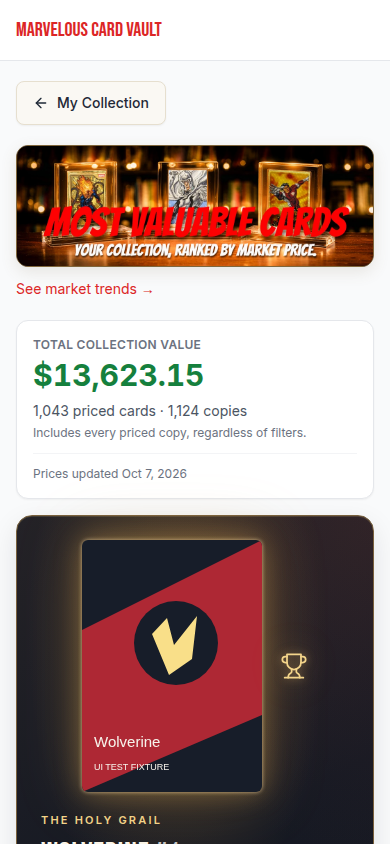
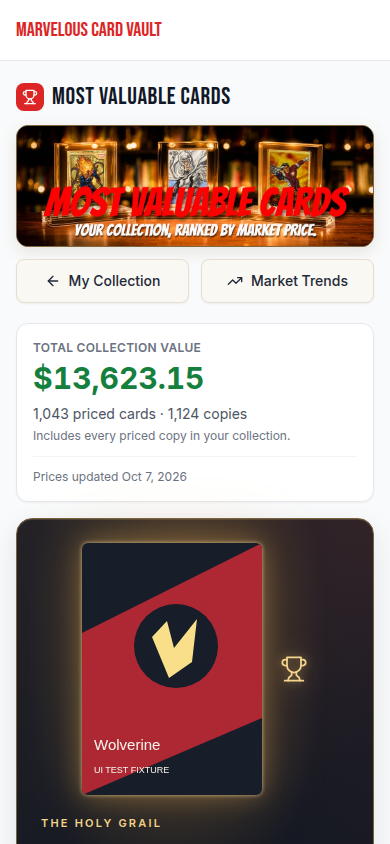
Update collection value browser and refresh development screenshots
Replit-Commit-Author: Agent

diff --git a/client/src/dev/value-browser-check.ts b/client/src/dev/value-browser-check.ts
@@ -99,10 +99,27 @@ async function checkBanner(page: Page) {
   assert.equal(dimensions.height, 344);
   assert.ok(Math.abs(dimensions.renderedWidth / dimensions.renderedHeight - 1024 / 344) < 0.01, "banner is uncropped");
   assert.notEqual(dimensions.objectFit, "cover");
-  assert.ok((await page.getByRole("heading", { name: "Most Valuable Cards", exact: true }).getAttribute("class"))?.includes("sr-only"));
+  const heading = page.getByRole("heading", { name: "Most Valuable Cards", exact: true });
+  assert.ok(!(await heading.getAttribute("class"))?.includes("sr-only"), "heading is visible, not screen-reader-only");
+  assert.equal(await heading.isVisible(), true);
   assert.equal(await page.getByText("Your collection, ranked by cached market price.", { exact: true }).count(), 0);
-  assert.equal(await page.getByRole("link", { name: "My Collection", exact: true }).getAttribute("href"), "/my-collection");
-  assert.equal(await page.getByRole("link", { name: "See market trends →" }).getAttribute("href"), "/trends");
+  const collectionLink = page.getByRole("link", { name: "My Collection", exact: true });
+  const trendsLink = page.getByRole("link", { name: "Market Trends", exact: true });
+  assert.equal(await collectionLink.getAttribute("href"), "/my-collection");
+  assert.equal(await trendsLink.getAttribute("href"), "/trends");
+  const titleBounds = await heading.boundingBox();
+  const bannerBounds = await banner.boundingBox();
+  const collectionBounds = await collectionLink.boundingBox();
+  const trendsBounds = await trendsLink.boundingBox();
+  assert.ok(titleBounds && bannerBounds && collectionBounds && trendsBounds);
+  assert.ok(titleBounds.y + titleBounds.height <= bannerBounds.y, "visible heading precedes banner");
+  assert.ok(collectionBounds.y >= bannerBounds.y + bannerBounds.height, "My Collection is below banner");
+  assert.ok(trendsBounds.y >= bannerBounds.y + bannerBounds.height, "Market Trends is below banner");
+  assert.ok(Math.abs(collectionBounds.y - trendsBounds.y) < 1, "navigation links share a row");
+  assert.ok(Math.abs(collectionBounds.width - trendsBounds.width) < 1, "navigation links are balanced");
+  assert.ok(collectionBounds.height >= 44 && trendsBounds.height >= 44, "comfortable navigation touch targets");
+  assert.ok((await page.getByTestId("value-summary").innerText()).includes("Includes every priced copy in your collection."));
+  assert.equal(await page.getByText("Includes every priced copy, regardless of filters.", { exact: true }).count(), 0);
 }
 
 // Run: npx tsx client/src/dev/value-browser-check.ts
@@ -146,7 +163,9 @@ const css = (await postcss([tailwindcss({ config: "tailwind.config.ts" })]).proc
 let checks = 0;
 try {
   for (const scenario of ["value", "dashboard", "collection", "trends", "profile-owner", "profile-visitor", "profile-private", "profile-friends", "profile-hidden", "empty", "error", "loading", "page-error", "detail-error"]) {
+    console.log(`Checking ${scenario}`);
     const page = await browser.newPage({ viewport: { width: 390, height: 844 } });
+    page.setDefaultTimeout(15_000);
     const errors: string[] = [], requests: string[] = [];
     page.on("pageerror", error => { errors.push(error.message); console.error(scenario, error.message); });
     await page.route("**/src/dev/value-harness.html*", route => route.fulfill({
@@ -249,6 +268,10 @@ try {
       assert.equal(await page.locator('[data-testid^="value-card-"]').count(), 25);
       await checkShowcase(page, requests, scenario, output);
       if (scenario === "value") {
+        await page.getByRole("link", { name: "Market Trends", exact: true }).click();
+        await page.getByRole("heading", { name: "Your top cards" }).waitFor();
+        await page.getByRole("link", { name: "See all →" }).click();
+        await page.getByTestId("value-page-banner").waitFor();
         await page.getByRole("link", { name: "My Collection", exact: true }).click();
         await page.getByRole("combobox", { name: "Collection sort" }).waitFor();
         assert.equal(await page.getByTestId("value-page-banner").count(), 0, "back navigation reaches My Collection");

diff --git a/client/src/pages/collection-value.tsx b/client/src/pages/collection-value.tsx
@@ -1,5 +1,5 @@
 import { Link } from "wouter";
-import { ArrowLeft } from "lucide-react";
+import { ArrowLeft, TrendingUp, Trophy } from "lucide-react";
 import { CollectionValueList } from "@/components/collection/collection-value-list";
 import valueBanner from "@/assets/most-valuable-cards-banner.webp";
 
@@ -7,13 +7,18 @@ export default function CollectionValue() {
   return (
     <div className="min-h-[100dvh] bg-gray-50 px-4 py-5 pb-20 sm:px-6">
       <div className="mx-auto max-w-5xl space-y-5">
-        <Link href="/my-collection" className="inline-flex min-h-11 items-center gap-2 rounded-lg border border-[#e6dfcf] bg-[#faf8f3] px-4 py-2 text-sm font-medium text-gray-800 shadow-sm hover:border-[#9b732e] hover:bg-[#f4efe4] focus-visible:outline focus-visible:outline-2 focus-visible:outline-offset-2 focus-visible:outline-red-600"><ArrowLeft aria-hidden="true" className="h-4 w-4" />My Collection</Link>
         <header className="space-y-3">
-          <h1 className="sr-only">Most Valuable Cards</h1>
+          <div className="flex items-center gap-2">
+            <div className="flex h-7 w-7 shrink-0 items-center justify-center rounded-lg bg-red-600 text-[#fffaf7]"><Trophy aria-hidden="true" className="h-4 w-4" /></div>
+            <h1 className="font-bebas text-2xl tracking-wide text-gray-900">Most Valuable Cards</h1>
+          </div>
           <div className="value-page-banner">
             <img src={valueBanner} width={1024} height={344} alt="Your collection, ranked by market price. Marvel cards in gold-lit display cases." fetchPriority="high" data-testid="value-page-banner" />
           </div>
-          <Link href="/trends" className="inline-block text-sm text-red-600 hover:underline">See market trends →</Link>
+          <nav aria-label="Collection navigation" className="grid grid-cols-2 gap-3 sm:max-w-md">
+            <Link href="/my-collection" className="inline-flex min-h-11 items-center justify-center gap-2 rounded-lg border border-[#e6dfcf] bg-[#faf8f3] px-3 py-2 text-sm font-medium text-gray-800 shadow-sm hover:border-[#9b732e] hover:bg-[#f4efe4] focus-visible:outline focus-visible:outline-2 focus-visible:outline-offset-2 focus-visible:outline-red-600"><ArrowLeft aria-hidden="true" className="h-4 w-4 shrink-0" />My Collection</Link>
+            <Link href="/trends" className="inline-flex min-h-11 items-center justify-center gap-2 rounded-lg border border-[#e6dfcf] bg-[#faf8f3] px-3 py-2 text-sm font-medium text-gray-800 shadow-sm hover:border-[#9b732e] hover:bg-[#f4efe4] focus-visible:outline focus-visible:outline-2 focus-visible:outline-offset-2 focus-visible:outline-red-600"><TrendingUp aria-hidden="true" className="h-4 w-4 shrink-0" />Market Trends</Link>
+          </nav>
         </header>
         <CollectionValueList showSummary />
       </div>

diff --git a/client/src/components/collection/collection-value-list.tsx b/client/src/components/collection/collection-value-list.tsx
@@ -64,7 +64,7 @@ export function CollectionValueList({
         <p className="text-xs font-semibold uppercase tracking-wide text-gray-500">Total collection value</p>
         <p className="mt-1 text-3xl font-bold tabular-nums text-green-700">{formatMarketValue(summary.totalValue)}</p>
         <p className="mt-2 text-sm text-gray-600">{summary.pricedCards.toLocaleString()} priced cards · {summary.pricedCopies.toLocaleString()} copies</p>
-        <p className="mt-1 text-xs text-gray-500">Includes every priced copy, regardless of filters.</p>
+        <p className="mt-1 text-xs text-gray-500">Includes every priced copy in your collection.</p>
         <p className="mt-3 border-t border-gray-100 pt-3 text-xs text-gray-500">Prices updated {summary.pricesUpdatedAt ? new Date(summary.pricesUpdatedAt).toLocaleDateString("en-US", { month: "short", day: "numeric", year: "numeric" }) : "—"}</p>
       </div>}
       {query.isLoading ? <div role="status" aria-label="Loading card values" className="space-y-4">
